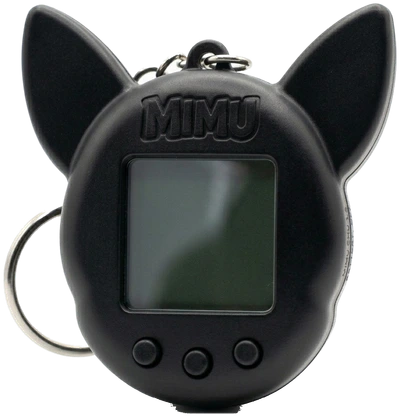
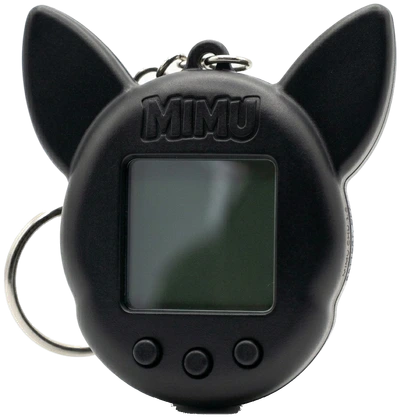
Mimu keychain pet: click to switch on for 60 minutes (powered-on photo), then it goes back to off

diff --git a/index.html b/index.html
@@ -77,8 +77,16 @@ input{font:inherit;color:inherit;-webkit-user-select:text;user-select:text}
 .prop img{display:block;width:100%;height:auto;-webkit-user-drag:none;user-select:none}
 .p-paper{left:2.4%;top:5.5%;width:440px}
 .p-paper img{transform:rotate(-24deg);transform-origin:50% 50%}
-.p-gadget{left:2.8%;top:45%;width:176px}
-.p-gadget img{transform:rotate(-9deg);filter:drop-shadow(9px 13px 9px rgba(0,0,0,.5)) drop-shadow(0 2px 3px rgba(0,0,0,.4))}
+.p-gadget{left:2.8%;top:45%;width:176px;transform:rotate(-9deg);transition:transform .25s var(--spring,ease)}
+.p-gadget img{display:block;width:100%;height:auto;filter:drop-shadow(9px 13px 9px rgba(0,0,0,.5)) drop-shadow(0 2px 3px rgba(0,0,0,.4));transition:opacity .35s ease}
+.p-gadget .pet-on{position:absolute;left:0;top:0;opacity:0}
+.p-gadget.on .pet-on{opacity:1}.p-gadget.on .pet-off{opacity:0}
+.p-gadget .pet-hit{position:absolute;inset:4% 3% 2% 3%;border-radius:46%;pointer-events:auto;cursor:pointer;outline:none}
+.p-gadget .pet-hit:focus-visible{box-shadow:0 0 0 3px #f0d28a}
+.p-gadget.wig:not(.pop){animation:petWig .5s ease-in-out infinite}
+.p-gadget.pop{animation:petPop .6s ease-out both}
+@keyframes petWig{0%,100%{transform:rotate(-9deg)}35%{transform:rotate(-12deg) translateY(-3px)}70%{transform:rotate(-6deg)}}
+@keyframes petPop{0%{transform:rotate(-9deg) scale(1)}25%{transform:rotate(-13deg) scale(1.1) translateY(-6px)}55%{transform:rotate(-7deg) scale(.98)}100%{transform:rotate(-9deg) scale(1)}}
 .p-bell{left:2.4%;bottom:96px;width:195px}
 /* the bell: swings from its yoke on hover, rings on click (and then opens the leaderboard) */
 .p-bell img{transform-origin:50% 88%;filter:drop-shadow(10px 14px 10px rgba(0,0,0,.45))}
@@ -838,7 +846,7 @@ body.enter .footbar{animation-name:chromeInB}
 <div id="desk">
   <!-- props: real photos, cut out, graded and shadowed to match the desk lamp -->
   <div class="prop p-paper"><img src="assets/notebook.webp?v=3" alt=""></div>
-  <div class="prop p-gadget"><img src="assets/mimu-gadget.webp?v=1" alt="" width="400" height="417"></div>
+  <div class="prop p-gadget" id="pet"><img class="pet-off" src="assets/mimu-gadget.webp?v=2" alt="" width="400" height="418"><img class="pet-on" src="assets/mimu-gadget-on.webp?v=2" alt="" width="400" height="418"><div class="pet-hit" role="button" tabindex="0" aria-pressed="false" aria-label="Mimu pet keychain. It is switched off. Press to turn it on for 60 minutes."></div></div>
   <div class="prop p-sticky"><img src="assets/postit.webp?v=4" alt=""></div>
   <div class="prop p-bell"><img src="assets/easy.webp?v=1" alt=""><div class="bell-hit"></div></div>
   <div class="prop p-mug"><img src="assets/latte.webp" alt=""><div class="steam"><i></i><i></i><i></i></div><div class="liq-hit"></div><canvas class="liq-cv"></canvas></div>
@@ -3326,6 +3334,35 @@ function setVolStep(n,quiet){
     setTimeout(()=>{el.classList.add('out');document.body.classList.add('enter')},2250);
     setTimeout(()=>{el.remove();document.body.style.overflow='';document.body.classList.remove('enter');if(prev&&prev.focus)try{prev.focus()}catch(e){}},4000);
   };
+})();
+
+/* the Mimu keychain pet: click once and it switches on for 60 minutes (it remembers across refreshes), then it switches itself off again */
+(function(){
+  const pet=$('#pet'),hit=pet&&pet.querySelector('.pet-hit');if(!pet||!hit)return;
+  const KEY='mimu_pet_on',LIFE=60*60*1000;
+  const read=()=>{try{const v=Number(localStorage.getItem(KEY));return v>0?v:0}catch(e){return 0}};
+  const write=v=>{try{if(v)localStorage.setItem(KEY,String(v));else localStorage.removeItem(KEY)}catch(e){}};
+  let wasOn=null;
+  const paint=()=>{
+    const t0=read(),on=t0>0&&Date.now()-t0<LIFE;
+    if(!on&&t0)write(0);
+    if(on!==wasOn){
+      wasOn=on;pet.classList.toggle('on',on);
+      hit.setAttribute('aria-pressed',on?'true':'false');
+      hit.setAttribute('aria-label',on?'Mimu pet keychain. It is switched on. It switches itself off after 60 minutes.':'Mimu pet keychain. It is switched off. Press to turn it on for 60 minutes.');
+    }
+  };
+  const press=()=>{
+    if(!(read()>0&&Date.now()-read()<LIFE)){
+      write(Date.now());paint();
+      pet.classList.remove('pop');void pet.offsetWidth;pet.classList.add('pop');setTimeout(()=>pet.classList.remove('pop'),650);
+      try{ac();tone(880,0,.07,.05,'square');tone(1320,.09,.1,.05,'square')}catch(e){}
+    }
+  };
+  hit.addEventListener('click',press);
+  hit.addEventListener('keydown',e=>{if(e.key==='Enter'||e.key===' '){e.preventDefault();press()}});
+  hit.addEventListener('mouseenter',()=>pet.classList.add('wig'));hit.addEventListener('mouseleave',()=>pet.classList.remove('wig'));
+  paint();setInterval(paint,15000);document.addEventListener('visibilitychange',()=>{if(!document.hidden)paint()});
 })();
 
 /* keyboard + screen-reader access for the desk easter eggs */
